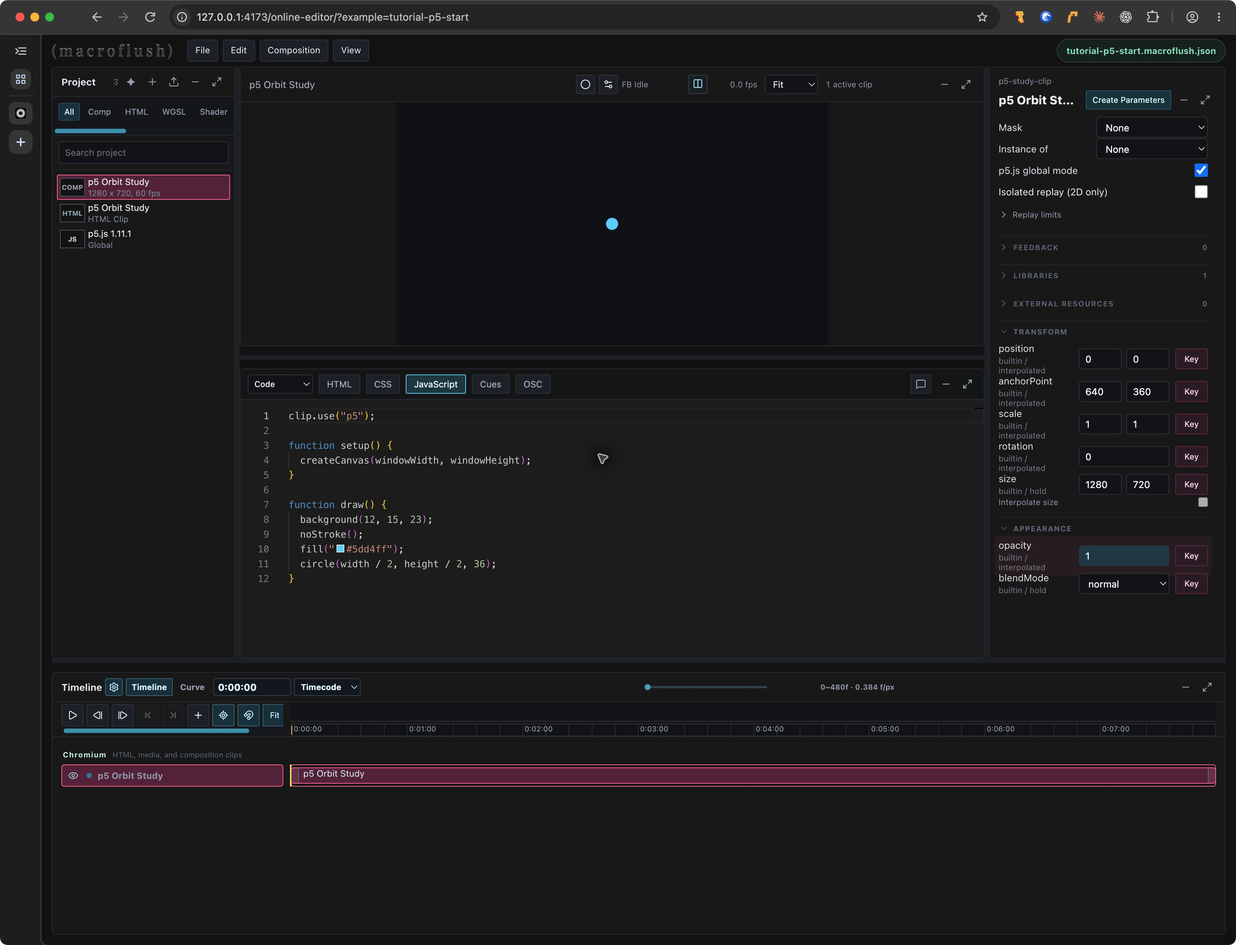
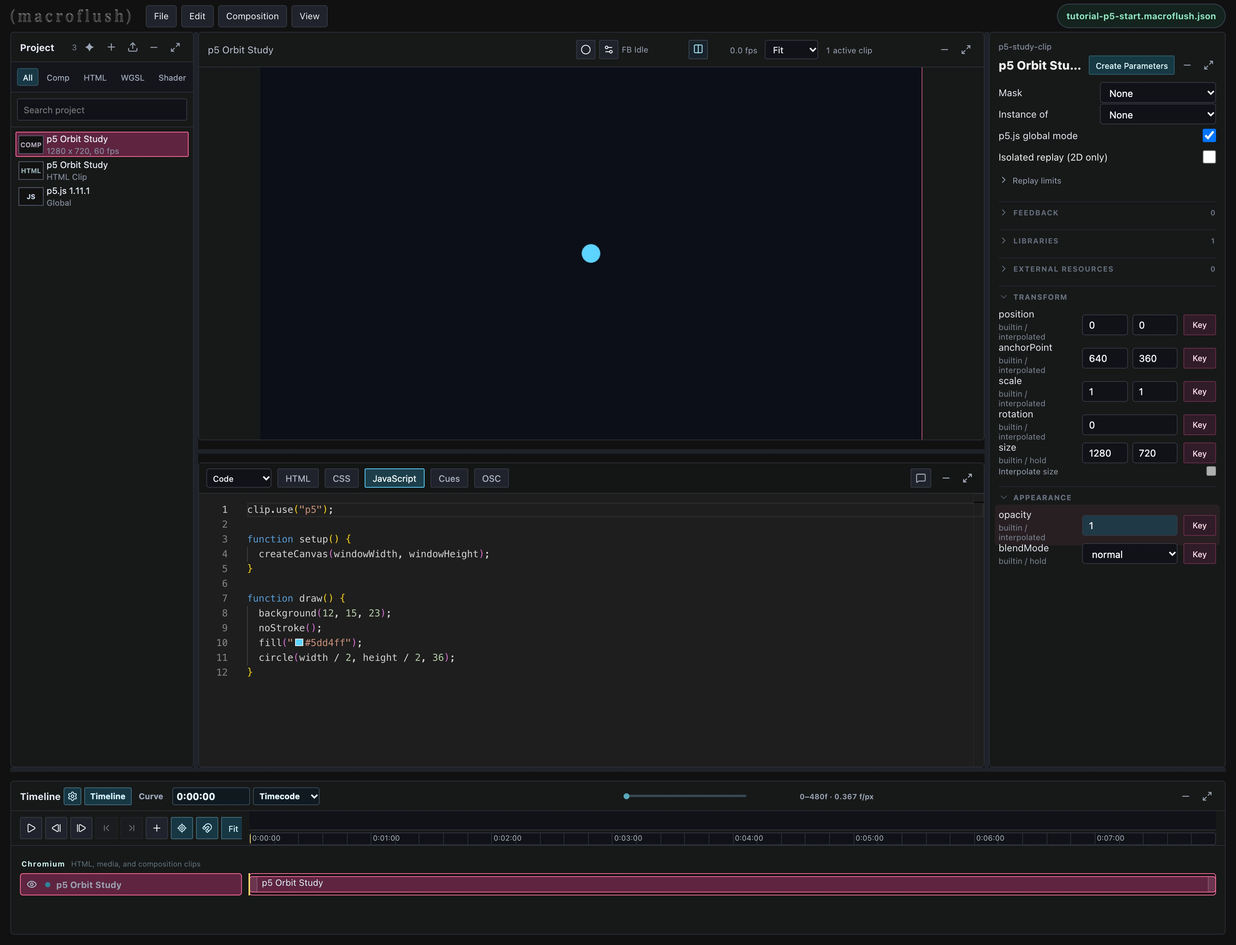
Refresh p5 tutorial screenshots without browser chrome

diff --git a/src/p5-tutorial-content.js b/src/p5-tutorial-content.js
@@ -92,12 +92,12 @@ export const p5TimelineLesson = {
   referenceUrl: "/reference/#p5", referenceLabel: "p5.js Reference",
   previewProject: "tutorial-p5-complete",
   steps: [
-    { title: "完成形を見て、開始用プロジェクトを開く", text: "p5 Orbitsの考え方を使って、7本の光の軌道が広がって戻る8秒の映像をつくります。上のプレビューを押すと再生・停止・シークと完成コードを確認できます。「開始用プロジェクト」はOnlineEditorで開き、中央の円から始まります。アプリ版で進める場合は「開始プロジェクトJSON」をダウンロードしてFile > Openから開いてください。教材は1280 × 720、60 fps、480フレーム。p5.js 1.11.1はJSONに埋め込み済みなので、CDNへの接続やライブラリの追加操作は不要です。", checks: ["前提：JavaScriptの変数とfor文が読めること。目安は20〜30分。", "完成版は教材用の簡略版です。Examplesのp5 Orbitsとは別のJSONなので、自由に編集できます。"], image: image("01-start", "開始用プロジェクトを開いたEditor。中央にシアンの円、Projectにp5.js、Timelineにp5 Orbit Studyを表示", "まずは動かない円。p5.jsを使う準備が整った状態から始められます。") },
-    { title: "Librariesとp5 global modeを確認する", text: "Timelineのp5 Orbit Studyを選び、Inspectorの「p5.js global mode」がONであることを確認します。Librariesを開くと、Global scriptのp5.js 1.11.1が選択されています。ProjectにライブラリがあるだけではClipは使えず、Librariesでの選択とp5 global modeの有効化、コードのclip.use(\"p5\")の3つが必要です。新しいプロジェクトでアプリからライブラリを追加する場合はProject > Load Script > Add Library from URL...を使い、Referenceにある固定版URLをGlobal scriptとして取り込みます。教材ではこの準備を済ませてあります。", image: image("02-libraries", "InspectorにONのp5.js global modeと、Librariesで選択されたp5.js 1.11.1を表示したEditor", "p5 global modeとLibrariesは別の設定。clip.useの記述だけでは準備は完了しません。") },
+    { title: "完成形を見て、開始用プロジェクトを開く", text: "p5 Orbitsの考え方を使って、7本の光の軌道が広がって戻る8秒の映像をつくります。上のプレビューを押すと再生・停止・シークと完成コードを確認できます。「開始用プロジェクト」はOnlineEditorで開き、中央の円から始まります。アプリ版で進める場合は「開始プロジェクトJSON」をダウンロードしてFile > Openから開いてください。教材は1280 × 720、60 fps、480フレーム。p5.js 1.11.1はJSONに埋め込み済みなので、CDNへの接続やライブラリの追加操作は不要です。", checks: ["前提：JavaScriptの変数とfor文が読めること。目安は20〜30分。", "完成版は教材用の簡略版です。Examplesのp5 Orbitsとは別のJSONなので、自由に編集できます。"], image: image("01-start", "開始用プロジェクトを開いたEditor。中央にシアンの円、Projectにp5.js、Timelineにp5 Orbit Studyを表示", "実Editorで開始用を開いた状態。中央の静止した円から始めます。") },
+    { title: "Librariesとp5 global modeを確認する", text: "Timelineのp5 Orbit Studyを選び、Inspectorの「p5.js global mode」がONであることを確認します。Librariesを開くと、Global scriptのp5.js 1.11.1が選択されています。ProjectにライブラリがあるだけではClipは使えず、Librariesでの選択とp5 global modeの有効化、コードのclip.use(\"p5\")の3つが必要です。新しいプロジェクトでアプリからライブラリを追加する場合はProject > Load Script > Add Library from URL...を使い、Referenceにある固定版URLをGlobal scriptとして取り込みます。教材ではこの準備を済ませてあります。", image: image("02-libraries", "InspectorにONのp5.js global modeと、Librariesで選択されたp5.js 1.11.1を表示したEditor", "p5 global modeはON。Librariesにはp5.js 1.11.1が割り当てられています。") },
     { title: "いつものsetup()とdraw()で円を描く", text: "JavaScriptタブの開始コードを確認します。setup()は初期化時に一度だけ実行し、createCanvas()で描画先を用意します。windowWidth / windowHeightはCompositionの寸法で、プレビューの表示倍率には左右されません。draw()はMacroFlushが渡すTimelineのtickで実行されます。ここでは毎回背景を塗り直して中央に円を描くので、Playを押しても形は変わりません。circle()の最後の値36は直径です。HTMLとCSSは空のままでかまいません。", code: p5StarterCode, checks: ["このClipにはCentiのsetup(callback)やonFrame()を足さず、p5の関数形式で書きます。", "描画を止めるときはTimelineのPauseを使います。p5のnoLoop()ではTimelineを停止できません。"] },
     { title: "millis()を使い、Timelineで円を動かす", text: "JavaScript全体を次のコードに置き換え、入力を止めると約300ms後にプレビューへ自動反映されます。millis()はClipのInからの時間をミリ秒で返します。8000で割ってTWO_PIを掛けると、8秒で1周する角度です。cos()とsin()を円のX・Yへ割り当てると、楕円の軌道を動きます。Playで進み、Pauseで止まり、Playheadを動かすとその時刻の位置に移ります。x += 1のように描画回数で位置を進めず、毎回時間から位置を計算することがポイントです。", code: orbitCode, checks: ["フレーム0は右端、120は下端、240は左端、360は上端。60 fpsなので120フレームは2秒です。", "ここでの時間はClipローカルです。Clipを後ろへ移動しても、そのClipの先頭でmillis()は0になります。"] },
-    { title: "7本の軌道に広げ、操作する値を公開する", text: "次の完成コードでJavaScript全体を置き換え、自動反映を待ちます。for文で7本を描き、push() / pop()でそれぞれの回転を分離しています。spreadは軌道全体の広がり、speedは時間に掛ける倍率です。clip.defineParams()で宣言したら、InspectorのCreate Parametersを押してCustomへ追加します。まだキーのない状態でspreadを0.65から1へ変え、広がることを確認してください。speedは0.5で遅く、2で速く動きます。speedの値をアニメーションすると位相そのものが変わるため、この教材では1の固定値へ戻します。", code: p5OrbitCode, checks: ["残像に見える点も、過去のCanvasを残さず現在の時間から描き直しています。", "色はpaletteの3色、軌道の本数はfor文の7を変更して試せます。"], image: image("03-parameters", "教材の完成コードと、InspectorのCustomにspreadとspeedを表示したEditor", "完成コードの設定箇所を確認。spreadとspeedがInspectorへつながります。画像は開始用から完成コードを入力し、パラメータを追加した状態です。") },
-    { title: "spreadに3つのキーフレームを打つ", text: "Time display unitをFramesに切り替えると、Timeline positionへフレーム番号を直接入力できます。フレーム0でspreadを0.65にしてKeyを押し、240で1にしてKey、479で0.65にしてKeyを追加します。Keyは現在フレームのキーを追加または更新します。値を変えた時点でキーが更新される場合もあるため、Timelineの菱形とInspectorのキー一覧で3つの時刻を確認してください。speedは1で、キーは付けません。これで最初は小さく、4秒で広がり、終わりに小さく戻ります。Timelineのキーを選んでCurveで補間を調整できます。完成JSONは最初に確認しやすいLinearです。慣れたらCurveで補間を変えて、広がり方を比べてみましょう。", checks: ["ClipはIn 0 / Out 480。Outは含まれないため、最後に描くフレームは479です。", "キーを選ぶこととPlayheadを動かすことは別操作です。値を確認するときはTimeline positionやルーラーでシークします。"], image: image("04-keyframes", "フレーム240で大きく広がる軌道と、spreadの0・240・479フレームのキーを表示したEditor", "240フレームではspreadが1。0・479では0.65になります。") },
+    { title: "7本の軌道に広げ、操作する値を公開する", text: "次の完成コードでJavaScript全体を置き換え、自動反映を待ちます。for文で7本を描き、push() / pop()でそれぞれの回転を分離しています。spreadは軌道全体の広がり、speedは時間に掛ける倍率です。clip.defineParams()で宣言したら、InspectorのCreate Parametersを押してCustomへ追加します。まだキーのない状態でspreadを0.65から1へ変え、広がることを確認してください。speedは0.5で遅く、2で速く動きます。speedの値をアニメーションすると位相そのものが変わるため、この教材では1の固定値へ戻します。", code: p5OrbitCode, checks: ["残像に見える点も、過去のCanvasを残さず現在の時間から描き直しています。", "色はpaletteの3色、軌道の本数はfor文の7を変更して試せます。"], image: image("03-parameters", "教材の完成コードと、InspectorのCustomにspreadとspeedを表示したEditor", "開始用へ完成コードを反映し、Create Parametersでspreadとspeedを追加した状態。キーはまだありません。") },
+    { title: "spreadに3つのキーフレームを打つ", text: "Time display unitをFramesに切り替えると、Timeline positionへフレーム番号を直接入力できます。フレーム0でspreadを0.65にしてKeyを押し、240で1にしてKey、479で0.65にしてKeyを追加します。Keyは現在フレームのキーを追加または更新します。値を変えた時点でキーが更新される場合もあるため、Timelineの菱形とInspectorのキー一覧で3つの時刻を確認してください。speedは1で、キーは付けません。これで最初は小さく、4秒で広がり、終わりに小さく戻ります。Timelineのキーを選んでCurveで補間を調整できます。完成JSONは最初に確認しやすいLinearです。慣れたらCurveで補間を変えて、広がり方を比べてみましょう。", checks: ["ClipはIn 0 / Out 480。Outは含まれないため、最後に描くフレームは479です。", "キーを選ぶこととPlayheadを動かすことは別操作です。値を確認するときはTimeline positionやルーラーでシークします。"], image: image("04-keyframes", "フレーム240で大きく広がる軌道と、spreadの0・240・479フレームのキーを表示したEditor", "フレーム240を表示し、spreadは1。InspectorとTimelineで0・240・479の3つのキーを確認できます。") },
     { title: "再生・停止・シークで確かめる", text: "Playして軌道が広がって戻ることを確認し、Pauseします。フレーム0→240→120→0の順にシークしてください。最初と最後の0で同じ絵になるのは、位置も残像も時間と現在のパラメータから計算しているためです。p5のframeCountはローカルフレーム+1なので、0フレームでは1です。通常のp5 global modeはシーク時にスケッチを最初から実行し直しません。変数への累積加算やCanvasへ描き足す作品を持ち込むときは、この違いを確認してからReferenceのIsolated replayを検討してください。" },
     { title: "描けないときは、この順に確認する", text: "コードを書き足す前に、設定とTimelineを確認します。開始用JSONまたは完成JSONを開き直すと、比較できる状態に戻れます。", checks: ["createCanvas is not defined：Librariesにp5.jsが選択されているか、p5.js global modeがONか、clip.use(\"p5\")があるか確認。", "円が見えない：レイヤー表示がONか、PlayheadがClipのIn / Out内か、JavaScriptが自動反映されたか確認。", "Customに値がない：完成コードが自動反映されたあとCreate Parametersを押す。HTMLアセットではなくTimelineのClip配置を選ぶ。", "spreadが手入力に戻らない：そのフレームではキーが優先されます。キーの値を編集するか、検証用にキーを外す。", "移植したスケッチだけ動かない：preload()やp5の外部ローダー、p5.sound、同じClipでのCenti併用はこの教材の方式の対象外です。"] },
     { title: "プロジェクトを保存し、自分のスケッチへ広げる", text: "File > Save Asでプロジェクトを保存します。JSONにはClipコード・配置・キーフレーム・埋め込んだp5.jsが一緒に入るので、保存したファイルを別のEditorでも開けます。ブラウザでは保存ダイアログまたはダウンロードからファイルを受け取ってください。次はpaletteを自分の配色に変えたり、ellipse()を別の図形へ置き換えてみましょう。自分のp5スケッチを移すときも、ライブラリとglobal modeを準備し、時間から状態を計算し、操作したい値を公開する、という順番で進められます。" }
@@ -108,12 +108,12 @@ export const p5TimelineLessonEnglish = {
   title: "Animate a p5.js sketch on the Timeline",
   summary: "Turn one circle into luminous orbits. Set up p5.js, follow Timeline time, and animate parameters with keyframes.",
   steps: [
-    { title: "Preview the result and open the starter", text: "Use the idea behind p5 Orbits to make an eight-second animation of seven expanding and contracting orbits. Click the preview above to play, pause, seek and inspect the finished code. Open the starter in OnlineEditor to begin with a circle. For the app, download the starter JSON and use File > Open. The project is 1280 × 720 at 60 fps with 480 frames. p5.js 1.11.1 is already embedded: no CDN connection or library installation is needed.", checks: ["Prerequisites: JavaScript variables and for loops. Allow about 20–30 minutes.", "The completed project is a simplified study, separate from the p5 Orbits JSON in Examples. Edit it freely."], image: image("01-start", "Starter in the Editor with a cyan circle, p5.js in Project and p5 Orbit Study on the Timeline", "Begin with a stationary circle and a configured p5.js environment.") },
-    { title: "Check Libraries and p5 global mode", text: "Select p5 Orbit Study on the Timeline and check that p5.js global mode is ON in the Inspector. Expand Libraries: the Global script p5.js 1.11.1 is selected. An asset in Project alone is not enough: the Clip needs the selected library, the enabled capability and clip.use(\"p5\") in its code. To prepare a new project in the app, use Project > Load Script > Add Library from URL... to import a pinned version from the Reference as a Global script. The starter already has these settings.", image: image("02-libraries", "Editor with p5.js global mode enabled and p5.js 1.11.1 selected under Libraries", "The capability and Libraries selection are separate settings. The clip.use declaration alone does not complete setup.") },
+    { title: "Preview the result and open the starter", text: "Use the idea behind p5 Orbits to make an eight-second animation of seven expanding and contracting orbits. Click the preview above to play, pause, seek and inspect the finished code. Open the starter in OnlineEditor to begin with a circle. For the app, download the starter JSON and use File > Open. The project is 1280 × 720 at 60 fps with 480 frames. p5.js 1.11.1 is already embedded: no CDN connection or library installation is needed.", checks: ["Prerequisites: JavaScript variables and for loops. Allow about 20–30 minutes.", "The completed project is a simplified study, separate from the p5 Orbits JSON in Examples. Edit it freely."], image: image("01-start", "Starter in the Editor with a cyan circle, p5.js in Project and p5 Orbit Study on the Timeline", "The starter opened in the actual Editor. Begin with the stationary circle in the center.") },
+    { title: "Check Libraries and p5 global mode", text: "Select p5 Orbit Study on the Timeline and check that p5.js global mode is ON in the Inspector. Expand Libraries: the Global script p5.js 1.11.1 is selected. An asset in Project alone is not enough: the Clip needs the selected library, the enabled capability and clip.use(\"p5\") in its code. To prepare a new project in the app, use Project > Load Script > Add Library from URL... to import a pinned version from the Reference as a Global script. The starter already has these settings.", image: image("02-libraries", "Editor with p5.js global mode enabled and p5.js 1.11.1 selected under Libraries", "p5 global mode is on, and p5.js 1.11.1 is assigned in Libraries.") },
     { title: "Draw a circle with familiar setup() and draw()", text: "Inspect the starter in the JavaScript tab. setup() runs once at initialization and createCanvas() prepares the canvas. windowWidth / windowHeight are Composition dimensions, unaffected by preview zoom. MacroFlush Timeline ticks drive draw(). This code repaints the background and draws a centered circle on every tick, so pressing Play does not change its shape. The final circle() argument, 36, is the diameter. HTML and CSS can stay empty.", checks: ["Use p5 function declarations here, without adding Centi's setup(callback) or onFrame().", "Pause with the Timeline transport. p5's noLoop() does not pause the Timeline."] },
     { title: "Drive the circle from Timeline time with millis()", text: "Replace the entire JavaScript with the code below and stop typing; the preview updates automatically after about 300 ms. millis() returns milliseconds since the Clip's In. Dividing by 8000 and multiplying by TWO_PI makes an angle that turns once in eight seconds. cos() and sin() give an elliptical path. Play advances, Pause stops, and seeking places the circle at that time. Calculate position directly from time instead of incrementing x with each draw.", checks: ["At frames 0 / 120 / 240 / 360 the circle is right / bottom / left / top. At 60 fps, 120 frames is two seconds.", "This is Clip-local time. Moving the Clip later on the Timeline still starts its millis() at zero."] },
-    { title: "Expand to seven orbits and expose controls", text: "Replace all JavaScript with the completed code below and wait for the automatic update. A for loop draws seven orbits; push() / pop() keep their transforms separate. spread controls their extent and speed multiplies time. After declaring them with clip.defineParams(), click Create Parameters in the Inspector to add them under Custom. Before adding keys, change spread from 0.65 to 1 and check the expansion. speed 0.5 is slower and 2 is faster. Animating this multiplier changes phase directly, so return speed to a constant 1 for this exercise.", checks: ["The apparent trails are also redrawn from current time; they do not depend on an accumulated canvas.", "Try changing the three palette colors or the for loop's orbit count of 7."], image: image("03-parameters", "Editor with the completed study code and spread and speed under Inspector Custom", "Locate the completed code and its Inspector controls. This image shows the starter after entering the completed code and adding parameters.") },
-    { title: "Add three spread keyframes", text: "Switch Time display unit to Frames so you can enter exact frame numbers in Timeline position. At frame 0 set spread to 0.65 and press Key; at 240 set 1 and add Key; at 479 set 0.65 and add Key. Key adds or updates the key at the current frame. Changing a value may already update it; check the Timeline diamonds and Inspector key list for all three frame numbers. Leave speed at 1 without keys. The orbits now start small, expand at four seconds and shrink toward the end. Select keys and adjust interpolation in Curve. The completed JSON uses Linear for an easy first comparison. Try another easing in Curve to change how it expands.", checks: ["The Clip has In 0 / Out 480. Out is excluded, so the final rendered frame is 479.", "Selecting a key and moving the playhead are different actions. Seek with Timeline position or the ruler when checking values."], image: image("04-keyframes", "Expanded orbits at frame 240 with spread keys at frames 0, 240 and 479", "spread is 1 at frame 240, and 0.65 at frames 0 and 479.") },
+    { title: "Expand to seven orbits and expose controls", text: "Replace all JavaScript with the completed code below and wait for the automatic update. A for loop draws seven orbits; push() / pop() keep their transforms separate. spread controls their extent and speed multiplies time. After declaring them with clip.defineParams(), click Create Parameters in the Inspector to add them under Custom. Before adding keys, change spread from 0.65 to 1 and check the expansion. speed 0.5 is slower and 2 is faster. Animating this multiplier changes phase directly, so return speed to a constant 1 for this exercise.", checks: ["The apparent trails are also redrawn from current time; they do not depend on an accumulated canvas.", "Try changing the three palette colors or the for loop's orbit count of 7."], image: image("03-parameters", "Editor with the completed study code and spread and speed under Inspector Custom", "The starter after applying the completed code and adding spread and speed with Create Parameters. No keys have been added yet.") },
+    { title: "Add three spread keyframes", text: "Switch Time display unit to Frames so you can enter exact frame numbers in Timeline position. At frame 0 set spread to 0.65 and press Key; at 240 set 1 and add Key; at 479 set 0.65 and add Key. Key adds or updates the key at the current frame. Changing a value may already update it; check the Timeline diamonds and Inspector key list for all three frame numbers. Leave speed at 1 without keys. The orbits now start small, expand at four seconds and shrink toward the end. Select keys and adjust interpolation in Curve. The completed JSON uses Linear for an easy first comparison. Try another easing in Curve to change how it expands.", checks: ["The Clip has In 0 / Out 480. Out is excluded, so the final rendered frame is 479.", "Selecting a key and moving the playhead are different actions. Seek with Timeline position or the ruler when checking values."], image: image("04-keyframes", "Expanded orbits at frame 240 with spread keys at frames 0, 240 and 479", "Frame 240 is displayed with spread 1. The Inspector and Timeline show all three keys at 0, 240 and 479.") },
     { title: "Check playback, pause and seeking", text: "Play the expansion and contraction, then Pause. Seek in the order 0 → 240 → 120 → 0. Both visits to frame 0 should show the same image because positions and trails come from time and current parameters. p5's frameCount is the local frame plus one, so it is 1 at frame 0. Ordinary p5 global mode does not rerun the sketch from the start on seek. If you bring in accumulated variables or canvas trails, examine that difference before considering Isolated replay in the Reference." },
     { title: "Troubleshoot in this order", text: "Check configuration and the Timeline before adding more code. Reopen the starter or completed JSON for a known comparison.", checks: ["createCanvas is not defined: check the p5.js Libraries selection, enabled p5.js global mode and clip.use(\"p5\").", "No circle: check layer visibility, the Clip's In / Out range and whether JavaScript has updated.", "No Custom controls: Wait for the completed code to update, then click Create Parameters. Select the Timeline placement rather than the HTML asset.", "spread ignores a manual value: keys take precedence at that frame. Edit the key value or remove keys for a temporary experiment.", "A ported sketch fails: preload(), p5 external loaders, p5.sound and combining Centi in the same Clip are outside this tutorial's workflow."] },
     { title: "Save and adapt your own sketch", text: "Use File > Save As. The JSON contains Clip code, placements, keyframes and embedded p5.js, so another Editor can open it. In the browser, receive the file through its save dialog or download. Next, choose your own palette or replace ellipse() with a different shape. The same sequence works for your own sketches: prepare the library and global mode, calculate state from time, then expose the values you want to control." }

diff --git a/assets/tutorials/p5-timeline/README.md b/assets/tutorials/p5-timeline/README.md
@@ -1,10 +1,22 @@
 # p5 Timeline tutorial captures
 
-Actual screenshots of the repository's browser Editor, captured in Chrome on 2026-11-13 through native UI controls. The JPEGs are 3342 × 2554 and retain the browser/window context.
+Actual screenshots of the repository's browser Editor, recaptured in Google Chrome
+through Playwright on 2026-11-17. The JPEGs are 3342 × 2554 pixels (1671 × 1277 CSS
+viewport, device scale factor 2). Page-content capture includes only the Editor:
+no browser tab bar, address bar, sidebar, or desktop chrome is included.
 
 1. `01-start.jpg`: `tutorial-p5-start` opened through OnlineEditor, static circle.
 2. `02-libraries.jpg`: the starter with Libraries expanded, p5.js 1.11.1 attached and p5 global mode enabled.
-3. `03-parameters.jpg`: the starter after pasting the article's complete code, clicking Create Parameters and collapsing Transform / Appearance. No keys yet.
+3. `03-parameters.jpg`: the starter after entering the article's complete code, clicking Create Parameters and collapsing Transform / Appearance. No keys yet.
 4. `04-keyframes.jpg`: the same edited starter after adding the three spread keys through the Inspector and seeking to frame 240. Linear interpolation; spread 1.
 
-No fabricated Editor UI or replacement drawing is used. Update both language captions in `src/p5-tutorial-content.js` when these images change.
+The completed source is copied directly from `p5OrbitCode` into the real Monaco
+editor through its public model API, preserving its exact formatting and using
+the Editor's normal automatic source update. Parameters are added with the real
+Create Parameters button, and all three keys are entered through the Inspector
+and Timeline controls. The key list is verified as 0:0.65 / 240:1 / 479:0.65,
+all Linear, with speed 1 and no speed keys. No project JSON, Editor distribution,
+DOM styling, or image content is altered for capture.
+
+No fabricated Editor UI or replacement drawing is used. Both languages share
+these captures with localized captions in `src/p5-tutorial-content.js`.
